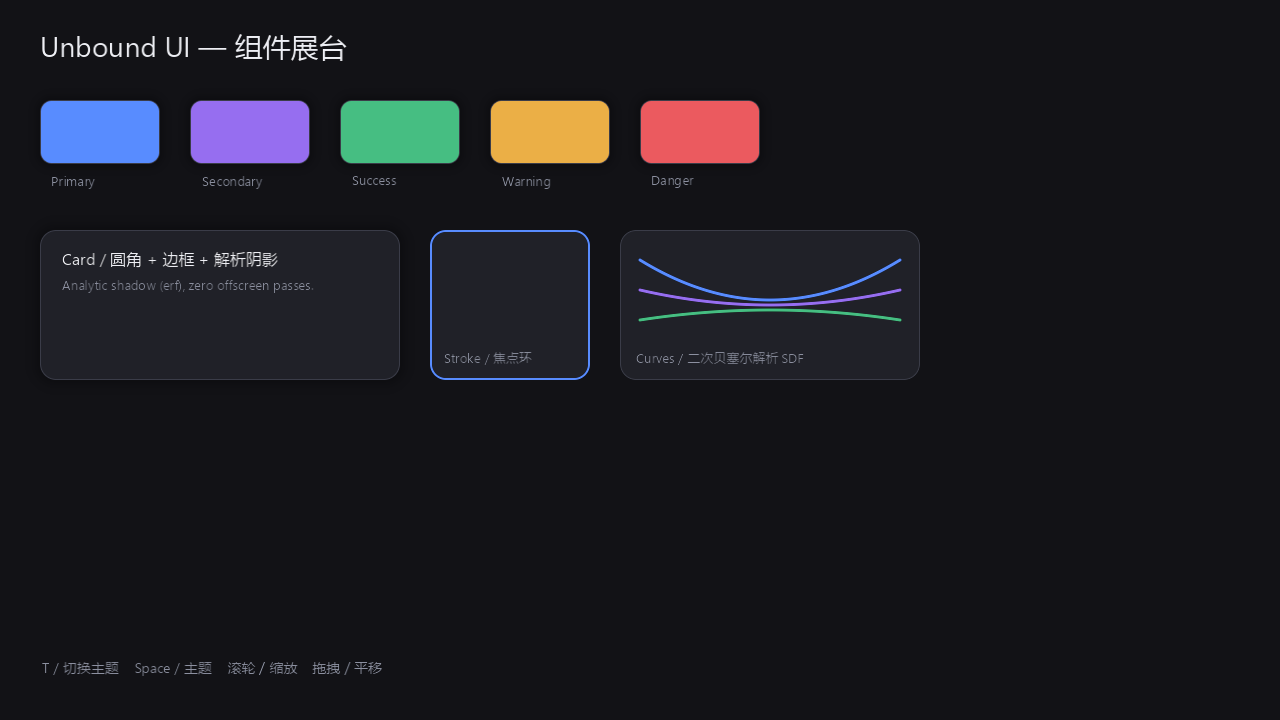
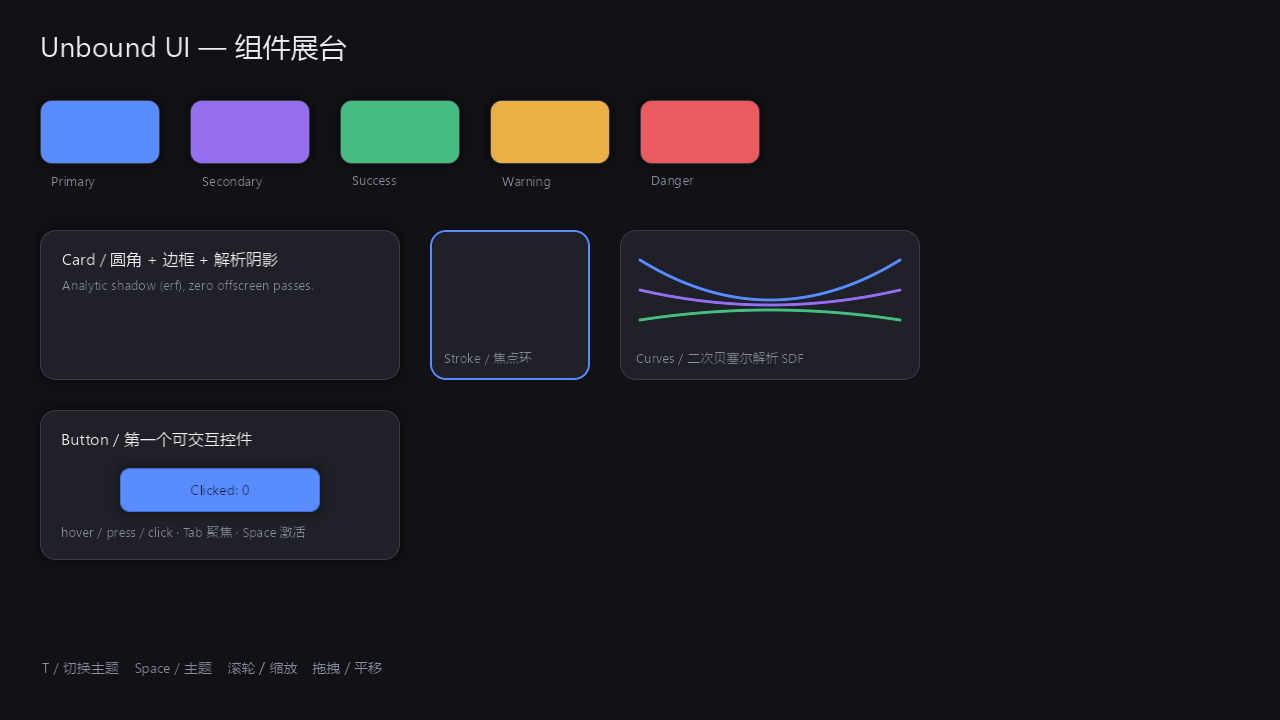
docs(showcase): 补充按钮交互说明并更新双主题截图
记录第一个可交互控件的形态与窗口管线对齐要点，避免后续把 hover/pressed 又写回散装 bool。

变更：
- 操作表新增 Tab / Enter / Esc，Space 在聚焦时激活按钮
- 新增 Button 卡片与状态色槽位 12..16 的说明
- 说明屏幕→画布逆变换、点击优先于平移、离散状态跃迁守卫三条约束
- 重新生成亮/暗截图，包含按钮卡片

Changed region(s): [[0.0312, 0.5806, 0.25, 0.7639], [0.0625, 0.6111, 0.0938, 0.6417]]

diff --git a/docs/06-tooling/showcase.md b/docs/06-tooling/showcase.md
@@ -4,8 +4,8 @@
 >
 > | | |
 > | :--- | :--- |
-> | **源码** | `apps/showcase/src/{main,gallery}.rs`、`apps/showcase/tests/gallery.rs` |
-> | **关键类型** | `Gallery`、`Palette`、`Labels`、`Showcase` |
+> | **源码** | `apps/showcase/src/{main,gallery,button}.rs`、`apps/showcase/tests/gallery.rs` |
+> | **关键类型** | `Gallery`、`Palette`、`Labels`、`Showcase`、`ButtonDesc`、`ButtonVisualState`、`Router` |
 > | **测试** | `apps/showcase/tests/gallery.rs`；渲染正确性由 `crates/unbound-gpu` 的像素断言覆盖 |
 
 `apps/showcase` 是引擎的**可视验收台**：一个真实开窗的 Vulkan 程序，把引擎能画
@@ -40,9 +40,12 @@ cargo run -p showcase --release
 
 | 输入 | 行为 |
 | :--- | :--- |
-| `T` / `Space` | 在亮色与暗色主题之间切换 |
+| `T` | 在亮色与暗色主题之间切换 |
+| `Space` | 有焦点时激活按钮；无焦点时切换主题 |
+| `Enter` | 激活当前聚焦的按钮 |
+| `Tab` / `Esc` | 聚焦按钮 / 取消焦点 |
 | 滚轮 | 以视口中心为锚点缩放（0.25× – 8×） |
-| 左键拖拽 | 平移画布 |
+| 左键拖拽 | 在空白处拖动平移画布；按在按钮上则是点击而不是平移 |
 
 ### 无头模式
 
@@ -71,12 +74,40 @@ cargo run -p showcase --release -- --shot shot.png --dark   # 暗色
 | 三条彩线 | 二次贝塞尔曲线的解析 SDF |
 | 标题与各处标签 | 双图集 + MTSDF 字形采样 |
 | 底部提示行 | 深色主题下的文字极性补偿 |
+| Button 卡片 | 第一个可交互控件：hover / press / focus / click |
+
+### 第一个可交互控件
+
+`button.rs` 给出组件的形态：**POD 描述符 + 派生状态 + 纯函数发射器**，而不是
+一个带方法的状态容器。
+
+* `ButtonDesc` 只描述几何与文案；组件身份来自 `unbound-world` 的 `NodeId`。
+* hover / pressed **不落任何 `bool` 字段**，每帧由 `unbound-input::Router` 的
+  捕获状态派生。按下后拖出按钮仍然保持 pressed（指针被捕获），松开越界不会
+  合成点击——这套经典场景不会出现两套状态失步。
+* 焦点与指针正交：`ButtonVisualState { phase, focused, disabled }`，所以
+  "Tab 聚焦后又悬停"能同时画出 hover 底色与外部焦点环。
+* 图元按 `SubElement`（`Shadow → Background → Content → Border → FocusRing`）
+  分层，五层共享同一个 `z`，由 64 位排序键决定顺序。
+
+窗口管线里有三处必须对齐：
+
+1. **屏幕坐标 → 画布坐标**：`Camera` 的映射是
+   `screen = (world - anchor) * zoom + viewport/2`，喂给 `Router` 之前必须做
+   逆变换，否则缩放/平移后热区会与画面错位。
+2. **点击优先于平移**：左键按下先问路由器是否命中 `HitRegion`；命中则捕获
+   指针并聚焦按钮，未命中才进入画布拖拽。
+3. **离散状态跃迁守卫**：只有 `(视觉态, 点击计数)` 变化的那一帧才重建场景并
+   递增 `generation`。平移、缩放、切主题、鼠标在按钮内部滑行都不触发上传。
 
 ### 主题切换为什么是「零上传」
 
 亮暗两套主题**共用同一套 token 槽位**，只有颜色表里的值不同。切换主题因此只
 是一次 4 KiB 的颜色表写入——图元数据一个字节都不用动，这与
 [正交缩放与主题切换](../02-ui/theme-and-zoom.md) 描述的机制一致。
+
+按钮的状态色也必须占用**独立槽位**：如果 hover 去改槽位 5（`primary`），
+同屏所有引用 primary 的色块会一起变色。槽位 12–16 就是为此预留的。
 
 | 槽位 | 含义 |
 | ---: | :--- |
@@ -87,6 +118,10 @@ cargo run -p showcase --release -- --shot shot.png --dark   # 暗色
 | 4 | 面板边框 |
 | 5 – 9 | primary / secondary / success / warning / danger |
 | 10 / 11 | 正文 / 次要文字 |
+| 12 / 13 | primary hover / pressed（按钮状态底色） |
+| 14 | on-primary（按钮文字） |
+| 15 | focus ring（焦点环） |
+| 16 | disabled fill（禁用底色） |
 
 ## 展台暴露出的引擎缺陷
 
